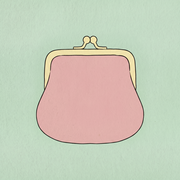
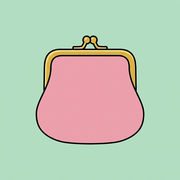
アイコンの変更

Changed region(s): [[0.2222, 0.1944, 0.7778, 0.5556], [0.1944, 0.5556, 0.6944, 0.8056], [0.6944, 0.5556, 0.8056, 0.7778]]

diff --git a/sw.js b/sw.js
@@ -1,6 +1,6 @@
 // オフラインでも起動できるよう、アプリ本体をiPhone内にキャッシュします。
 // index.html を更新したら、下の版数を上げてください（例: v2）。
-const CACHE = 'kakeibo-v3';
+const CACHE = 'kakeibo-v4';
 const FILES = ['./', './index.html', './manifest.json', './icon-180.png', './icon-512.png'];
 
 self.addEventListener('install', e => {
